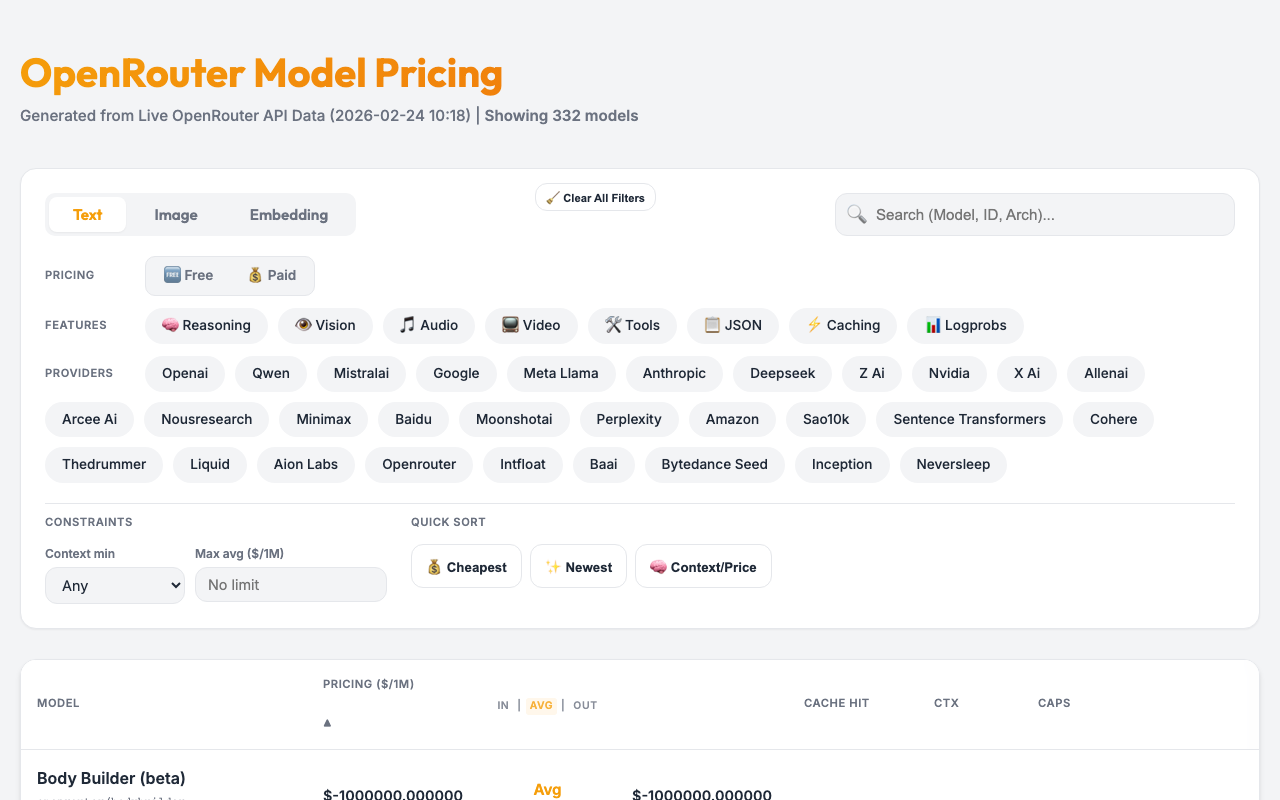
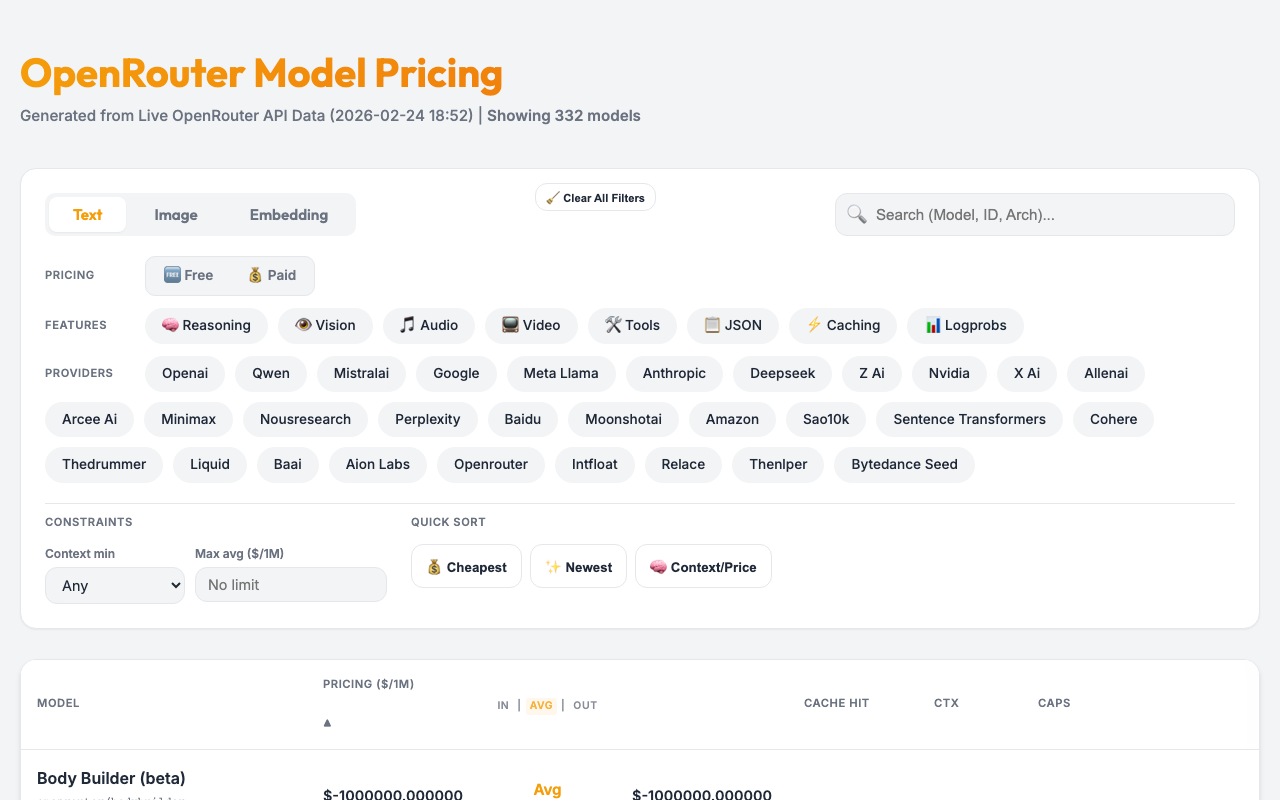
chore: automated pricing update (2026-02-24 18:52:49)
🔄 Changed Models (2): anthropic/claude-3-haiku, qwen/qwen3.5-397b-a17b

diff --git a/docs/index.html b/docs/index.html
@@ -634,7 +634,7 @@
     <div class="container">
         <header>
             <h1>OpenRouter Model Pricing</h1>
-            <div class="meta">Generated from Live OpenRouter API Data (2026-02-24 10:18)</div>
+            <div class="meta">Generated from Live OpenRouter API Data (2026-02-24 18:52)</div>
         </header>
 
         <div class="controls">
@@ -885,9 +885,9 @@
         "instruct_type": null
       },
       "pricing": {
-        "prompt": "0.00000015",
-        "completion": "0.000001",
-        "input_cache_read": "0.00000015"
+        "prompt": "0.00000055",
+        "completion": "0.0000035",
+        "input_cache_read": "0.00000055"
       },
       "top_provider": {
         "context_length": 262144,
@@ -15949,7 +15949,7 @@
         "top_p"
       ],
       "default_parameters": {},
-      "expiration_date": "2026-08-23"
+      "expiration_date": null
     },
     {
       "id": "mistralai/mistral-large",
@@ -18087,7 +18087,7 @@
   ],
   "other": []
 };
-        window.providerOptions = ['openai', 'qwen', 'mistralai', 'google', 'meta-llama', 'anthropic', 'deepseek', 'z-ai', 'nvidia', 'x-ai', 'allenai', 'arcee-ai', 'nousresearch', 'minimax', 'baidu', 'moonshotai', 'perplexity', 'amazon', 'sao10k', 'sentence-transformers', 'cohere', 'thedrummer', 'liquid', 'aion-labs', 'openrouter', 'intfloat', 'baai', 'bytedance-seed', 'inception', 'neversleep', 'relace', 'microsoft', 'thenlper', 'morph', 'inflection', 'stepfun', 'ai21', 'raifle', 'upstage', 'meituan', 'kwaipilot', 'xiaomi', 'anthracite-org', 'nex-agi', 'opengvlab', 'tencent', 'gryphe', 'alibaba', 'eleutherai', 'prime-intellect', 'cognitivecomputations', 'writer', 'undi95', 'alfredpros', 'deepcogito', 'essentialai', 'bytedance', 'mancer', 'ibm-granite', 'switchpoint', 'tngtech', 'alpindale'];
+        window.providerOptions = ['openai', 'qwen', 'mistralai', 'google', 'meta-llama', 'anthropic', 'deepseek', 'z-ai', 'nvidia', 'x-ai', 'allenai', 'arcee-ai', 'minimax', 'nousresearch', 'perplexity', 'baidu', 'moonshotai', 'amazon', 'sao10k', 'sentence-transformers', 'cohere', 'thedrummer', 'liquid', 'baai', 'aion-labs', 'openrouter', 'intfloat', 'relace', 'thenlper', 'bytedance-seed', 'neversleep', 'inception', 'stepfun', 'inflection', 'morph', 'microsoft', 'writer', 'raifle', 'essentialai', 'deepcogito', 'upstage', 'nex-agi', 'anthracite-org', 'meituan', 'bytedance', 'ai21', 'tngtech', 'undi95', 'gryphe', 'opengvlab', 'cognitivecomputations', 'alfredpros', 'alpindale', 'kwaipilot', 'alibaba', 'xiaomi', 'prime-intellect', 'eleutherai', 'mancer', 'switchpoint', 'tencent', 'ibm-granite'];
         let currentTab = 'text';
         let sortKey = 'price_avg';
         let sortAsc = true;
